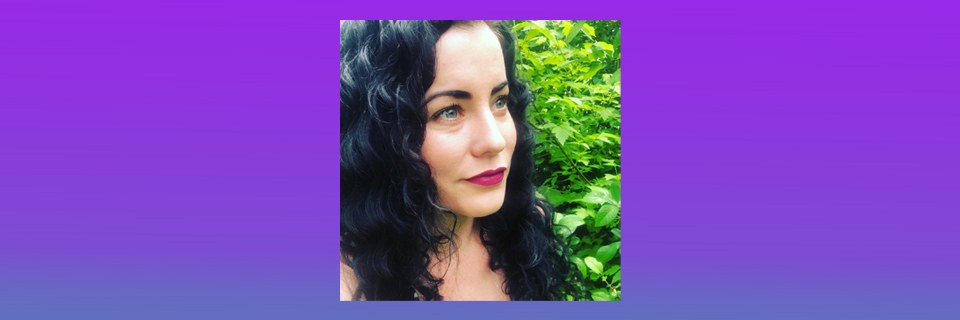
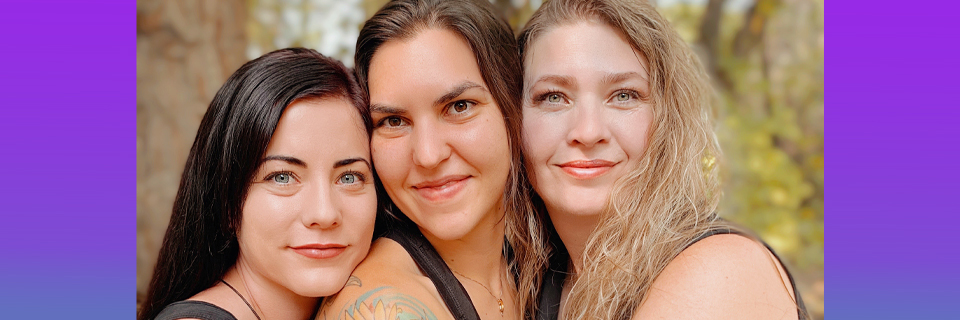
New edits and photo.

diff --git a/src/components/Main.js b/src/components/Main.js
@@ -256,14 +256,15 @@ class Main extends React.Component {
 
           <h3>About</h3>
           <p>
-            My name is Kori Witmer. I am a driven and passionate Master
-            Esthetician. The adoration of my work is only matched by my love for
-            helping others. I thrive on positive change in our modern day
-            movement to make Beauty and Wellness into one shared meaning. Much
-            like the Athame; I am dedicated to being your guide to natural
-            wellness, empowerment, and enlightened energy through the rituals of
-            skin care, relaxation and positive reflection. May you find self
-            love in mind, body and soul.
+            We are driven and passionate masters of our craft. The adoration of
+            our work is only matched by our love for helping others. We thrive
+            on positive change in our modern day movement to make Beauty and
+            Wellness into one shared meaning. Much like the Athame; we are
+            dedicated to being your guides to natural wellness, empowerment, and
+            enlightened energy through the rituals of skin care, relaxation and
+            positive reflection. May you find self love in mind, body and soul.
+            <br /> <br />
+            <em>-Kori, Maddie and Shanna.</em>
           </p>
 
           {close}
@@ -300,6 +301,12 @@ class Main extends React.Component {
           style={{ display: 'none' }}
         >
           <h2 className="major">Contact</h2>
+
+          <p>
+            825 East 4800 South <br />
+            Suite 230 <br />
+            Murray, UT 87107 <br />
+          </p>
 
           <form
             method="post"
